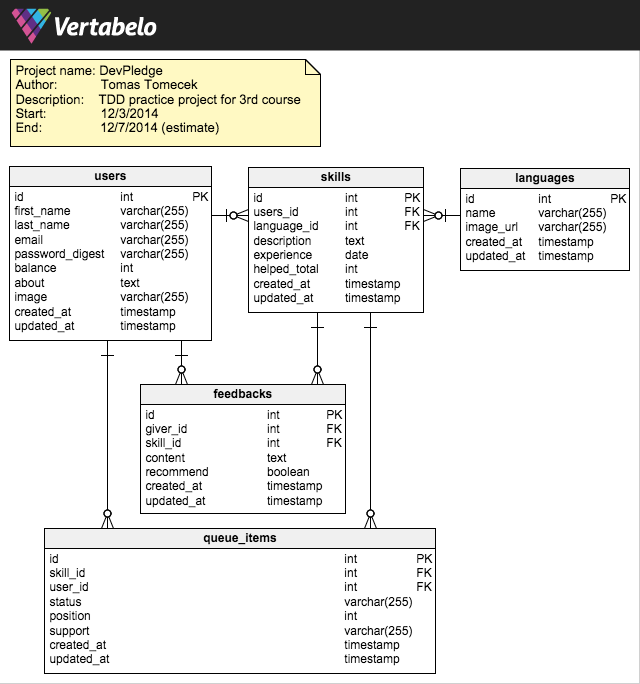
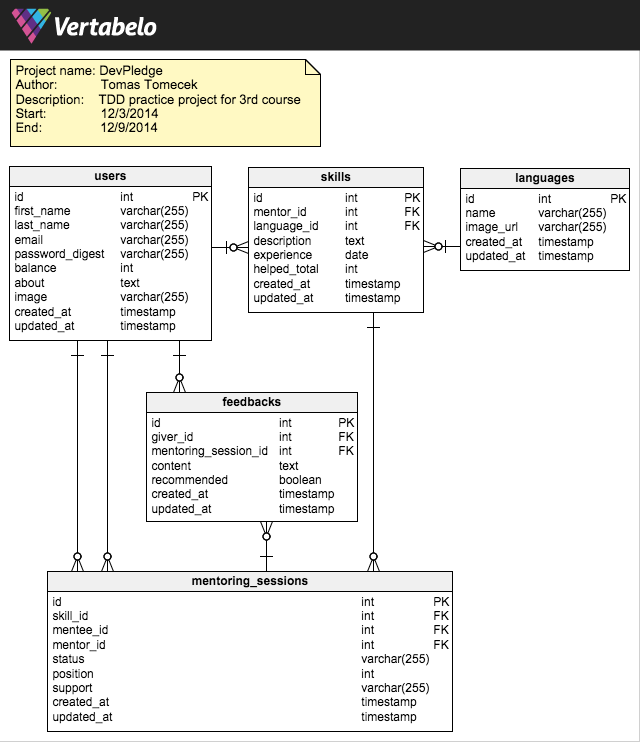
AJAX new feedback form

Changed region(s): [[0.0, 0.0, 1.0, 1.0], [0.3438, 0.2149, 1.0, 0.4912]]

diff --git a/spec/models/mentoring_session_spec.rb b/spec/models/mentoring_session_spec.rb
@@ -8,6 +8,7 @@ describe MentoringSession do
   it { should belong_to(:skill) }
   it { should belong_to(:mentee).class_name("User") }
   it { should belong_to(:mentor).class_name("User") }
+  it { should have_many(:feedbacks) }
   it { should validate_presence_of(:status) }
   it { should validate_presence_of(:skill) }
   it { should validate_presence_of(:mentee) }
@@ -31,17 +32,13 @@ describe MentoringSession do
   describe "#feedback_submitted?" do
     it "returns true if feedback for mentoring_session from mentee exists" do
       alice = Fabricate(:user)
-      skill = Fabricate(:skill)
-      Fabricate(:mentoring_session, mentee: alice, skill: skill)
-      Fabricate(:feedback, giver: alice, skill: skill)
+      ms = Fabricate(:mentoring_session, mentee: alice)
+      Fabricate(:feedback, giver: alice, mentoring_session: ms)
       expect(MentoringSession.first.feedback_submitted?).to be true
     end
 
     it "returns false if feedback for mentoring_session from mentee is missing" do
-      alice = Fabricate(:user)
-      bob = Fabricate(:user)
-      skill = Fabricate(:skill, mentor: bob)
-      Fabricate(:mentoring_session, skill: skill, mentor: bob, mentee: alice)
+      Fabricate(:mentoring_session)
       expect(MentoringSession.first.feedback_submitted?).to be false
     end
   end

diff --git a/spec/models/skill_spec.rb b/spec/models/skill_spec.rb
@@ -2,7 +2,7 @@ require 'spec_helper'
 
 describe Skill do
   
-  it { should have_many(:feedbacks).order(created_at: :desc) }
+  it { should have_many(:feedbacks).order(created_at: :desc).through(:mentoring_sessions) }
   it { should have_many(:mentoring_sessions).order(:position) }
   it { should belong_to(:mentor).class_name('User') }
   it { should belong_to(:language) }
@@ -25,8 +25,8 @@ describe Skill do
 
     it "returns number for number of feedbacks" do
       html = Fabricate(:skill)
-      Fabricate(:feedback, skill: html)
-      Fabricate(:feedback, skill: html)
+      ms = Fabricate(:mentoring_session, skill: html)
+      Fabricate.times(2, :feedback, mentoring_session: ms)
       expect(html.total_feedbacks).to eq(2)
     end
   end
@@ -35,9 +35,8 @@ describe Skill do
     it "returns count of all mentor sessions" do
       bob = Fabricate(:user)
       skill = Fabricate(:skill, mentor: bob)
-      Fabricate.times(3, :mentoring_session, skill: skill, mentor: bob)
-      
-      expect(Skill.first.mentor_sessions_total).to eq(3)
+      Fabricate.times(2, :mentoring_session, skill: skill, mentor: bob)      
+      expect(Skill.first.mentor_sessions_total).to eq(2)
     end
   end
   

diff --git a/spec/controllers/feedbacks_controller_spec.rb b/spec/controllers/feedbacks_controller_spec.rb
@@ -1,0 +1,37 @@
+require 'spec_helper'
+
+describe FeedbacksController do
+  let(:alice) { Fabricate(:user) }
+  before { set_current_user(alice) }
+  let!(:ms) { Fabricate(:mentoring_session, mentee: alice) }
+
+  describe "GET new" do
+
+    context "AJAX request" do
+      it "sets the @mentoring_session" do        
+        xhr :get, :new, mentoring_session_id: ms.id
+        expect(assigns(:mentoring_session)).to eq(ms)
+      end
+
+      it "redirects to root url for unauthorized" do
+        clear_current_user
+        xhr :get, :new, mentoring_session_id: ms.id
+        expect(response).to redirect_to root_url
+      end
+    end
+
+    context "HTML request" do
+      it "sets the @mentoring_session" do 
+        get :new, mentoring_session_id: ms.id
+        expect(assigns(:mentoring_session)).to eq(ms)
+      end
+
+      it "redirects to root url for unauthorized" do
+        clear_current_user
+        get :new, mentoring_session_id: ms.id
+        expect(response).to redirect_to root_url
+      end
+    end
+  
+  end
+end

diff --git a/db/schema.rb b/db/schema.rb
@@ -11,14 +11,14 @@
 #
 # It's strongly recommended that you check this file into your version control system.
 
-ActiveRecord::Schema.define(version: 20141208073746) do
+ActiveRecord::Schema.define(version: 20141208215618) do
 
   # These are extensions that must be enabled in order to support this database
   enable_extension "plpgsql"
 
   create_table "feedbacks", force: true do |t|
     t.integer  "giver_id"
-    t.integer  "skill_id"
+    t.integer  "mentoring_session_id"
     t.text     "content"
     t.boolean  "recommended"
     t.datetime "created_at"
@@ -26,7 +26,7 @@ ActiveRecord::Schema.define(version: 20141208073746) do
   end
 
   add_index "feedbacks", ["giver_id"], name: "index_feedbacks_on_giver_id", using: :btree
-  add_index "feedbacks", ["skill_id"], name: "index_feedbacks_on_skill_id", using: :btree
+  add_index "feedbacks", ["mentoring_session_id"], name: "index_feedbacks_on_mentoring_session_id", using: :btree
 
   create_table "languages", force: true do |t|
     t.string   "name"

diff --git a/spec/models/feedback_spec.rb b/spec/models/feedback_spec.rb
@@ -3,11 +3,11 @@ require 'spec_helper'
 describe Feedback do
 
   it { should have_db_index(:giver_id) }
-  it { should have_db_index(:skill_id) }
+  it { should have_db_index(:mentoring_session_id) }
   it { should belong_to(:giver).class_name('User') }
-  it { should belong_to(:skill) }
+  it { should belong_to(:mentoring_session) }
   it { should validate_presence_of(:giver) }
-  it { should validate_presence_of(:skill) }
+  it { should validate_presence_of(:mentoring_session) }
   it { should validate_presence_of(:content) }
   it { should validate_presence_of(:recommended) }
 

diff --git a/config/routes.rb b/config/routes.rb
@@ -16,8 +16,10 @@ Rails.application.routes.draw do
   resources :skills, only: [:new, :create]
   resources :mentoring_sessions, only: [:create, :destroy] do
     collection do
-      patch 'update_queue', to: "mentoring_sessions#update_sessions", as: :update
+      patch 'update', to: "mentoring_sessions#update_sessions", as: :update
     end
+
+    resources :feedbacks, only: [:new, :create]
   end
 
 end

diff --git a/app/helpers/application_helper.rb b/app/helpers/application_helper.rb
@@ -22,7 +22,7 @@ module ApplicationHelper
     elsif ms.status == "completed" && ms.feedback_submitted?
       "submitted"
     else
-      link_to "feedback", '', data: { toggle: "modal", target: "#feedbackFormModal"}      
+      link_to "feedback", new_mentoring_session_feedback_path(ms), data: { toggle: "modal", target: "#feedbackFormModal"}, remote: true
     end
 
   end

diff --git a/app/models/skill.rb b/app/models/skill.rb
@@ -1,8 +1,8 @@
 class Skill < ActiveRecord::Base
   belongs_to :mentor, class_name: "User"
   belongs_to :language
-  has_many :feedbacks, -> { order(created_at: :desc) }
   has_many :mentoring_sessions, -> { order(:position) }
+  has_many :feedbacks, -> { order(created_at: :desc) }, through: :mentoring_sessions
 
   validates_presence_of :mentor, :language, :experience
 

diff --git a/app/models/mentoring_session.rb b/app/models/mentoring_session.rb
@@ -2,6 +2,7 @@ class MentoringSession < ActiveRecord::Base
   belongs_to :skill
   belongs_to :mentee, class_name: "User"
   belongs_to :mentor, class_name: "User"
+  has_many :feedbacks
 
   validates_presence_of :status, :skill, :mentee, :support
   validates_numericality_of :position, only_integer: true

diff --git a/app/models/feedback.rb b/app/models/feedback.rb
@@ -1,6 +1,6 @@
 class Feedback < ActiveRecord::Base
   belongs_to :giver, class_name: "User"
-  belongs_to :skill
+  belongs_to :mentoring_session
 
-  validates_presence_of :giver, :skill, :content, :recommended
+  validates_presence_of :giver, :mentoring_session, :content, :recommended
 end

diff --git a/app/controllers/feedbacks_controller.rb b/app/controllers/feedbacks_controller.rb
@@ -1,0 +1,12 @@
+class FeedbacksController < ApplicationController
+  before_action :require_user
+
+  def new
+    @mentoring_session = MentoringSession.find(params[:mentoring_session_id])
+
+    respond_to do |format|
+      format.html
+      format.js
+    end
+  end
+end

diff --git a/db/migrate/20141208215618_rename_skill_id_from_feedbacks.rb b/db/migrate/20141208215618_rename_skill_id_from_feedbacks.rb
@@ -1,0 +1,5 @@
+class RenameSkillIdFromFeedbacks < ActiveRecord::Migration
+  def change
+    rename_column :feedbacks, :skill_id, :mentoring_session_id
+  end
+end
